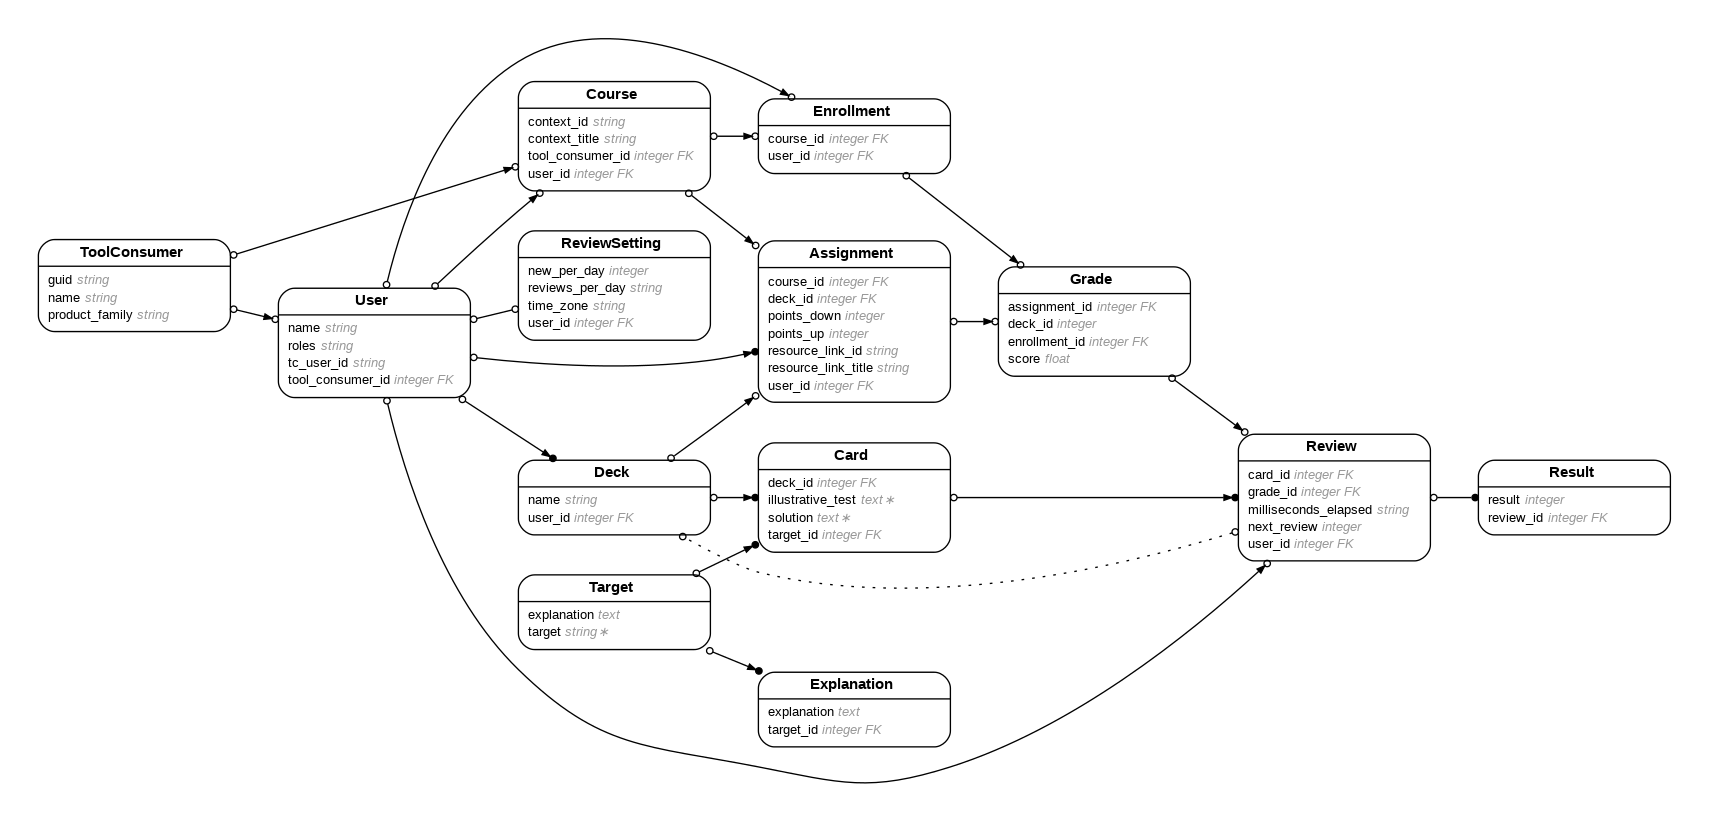
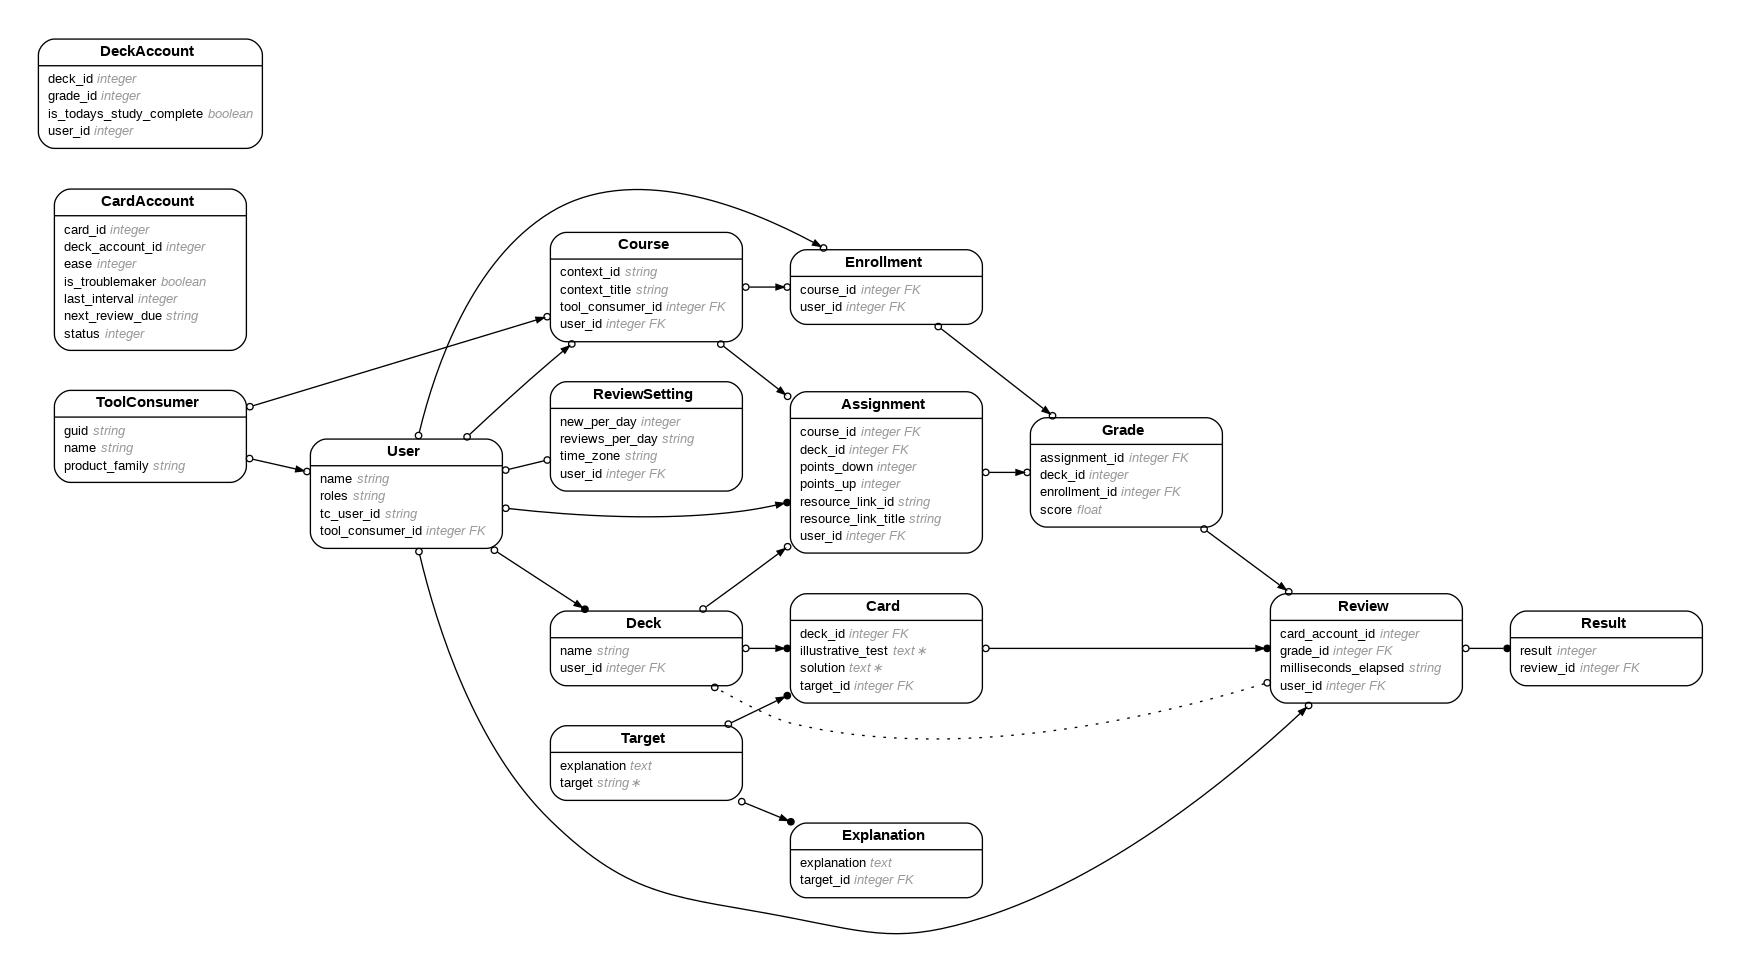
updated the domain model to help with grades. next updating the associations

diff --git a/db/schema.rb b/db/schema.rb
@@ -10,7 +10,7 @@
 #
 # It's strongly recommended that you check this file into your version control system.
 
-ActiveRecord::Schema.define(version: 2021_08_11_215713) do
+ActiveRecord::Schema.define(version: 2021_08_24_172532) do
 
   # These are extensions that must be enabled in order to support this database
   enable_extension "plpgsql"
@@ -23,6 +23,18 @@ ActiveRecord::Schema.define(version: 2021_08_11_215713) do
     t.integer "deck_id"
     t.integer "points_up", default: 1
     t.integer "points_down", default: 1
+    t.datetime "created_at", precision: 6, null: false
+    t.datetime "updated_at", precision: 6, null: false
+  end
+
+  create_table "card_accounts", force: :cascade do |t|
+    t.integer "deck_account_id"
+    t.integer "card_id"
+    t.integer "status", default: 0
+    t.integer "last_interval", default: 0
+    t.string "next_review_due", default: "0"
+    t.integer "ease", default: 250
+    t.boolean "is_troublemaker", default: false
     t.datetime "created_at", precision: 6, null: false
     t.datetime "updated_at", precision: 6, null: false
   end
@@ -41,6 +53,15 @@ ActiveRecord::Schema.define(version: 2021_08_11_215713) do
     t.integer "user_id"
     t.string "context_id"
     t.string "context_title"
+    t.datetime "created_at", precision: 6, null: false
+    t.datetime "updated_at", precision: 6, null: false
+  end
+
+  create_table "deck_accounts", force: :cascade do |t|
+    t.integer "user_id"
+    t.integer "grade_id"
+    t.integer "deck_id"
+    t.boolean "is_todays_study_complete", default: false
     t.datetime "created_at", precision: 6, null: false
     t.datetime "updated_at", precision: 6, null: false
   end
@@ -92,9 +113,8 @@ ActiveRecord::Schema.define(version: 2021_08_11_215713) do
   end
 
   create_table "reviews", force: :cascade do |t|
-    t.integer "next_review"
     t.string "milliseconds_elapsed"
-    t.integer "card_id"
+    t.integer "card_account_id"
     t.integer "grade_id"
     t.integer "user_id"
     t.datetime "created_at", precision: 6, null: false

diff --git a/test/models/card_account_test.rb b/test/models/card_account_test.rb
@@ -1,0 +1,22 @@
+# == Schema Information
+#
+# Table name: card_accounts
+#
+#  id              :bigint           not null, primary key
+#  deck_account_id :integer
+#  card_id         :integer
+#  status          :integer          default(0)
+#  last_interval   :integer          default(0)
+#  next_review_due :string           default("0")
+#  ease            :integer          default(250)
+#  is_troublemaker :boolean          default(FALSE)
+#  created_at      :datetime         not null
+#  updated_at      :datetime         not null
+#
+require "test_helper"
+
+class CardAccountTest < ActiveSupport::TestCase
+  # test "the truth" do
+  #   assert true
+  # end
+end

diff --git a/app/models/card_account.rb b/app/models/card_account.rb
@@ -1,0 +1,17 @@
+# == Schema Information
+#
+# Table name: card_accounts
+#
+#  id              :bigint           not null, primary key
+#  deck_account_id :integer
+#  card_id         :integer
+#  status          :integer          default(0)
+#  last_interval   :integer          default(0)
+#  next_review_due :string           default("0")
+#  ease            :integer          default(250)
+#  is_troublemaker :boolean          default(FALSE)
+#  created_at      :datetime         not null
+#  updated_at      :datetime         not null
+#
+class CardAccount < ApplicationRecord
+end

diff --git a/test/models/deck_account_test.rb b/test/models/deck_account_test.rb
@@ -1,0 +1,19 @@
+# == Schema Information
+#
+# Table name: deck_accounts
+#
+#  id                       :bigint           not null, primary key
+#  user_id                  :integer
+#  grade_id                 :integer
+#  deck_id                  :integer
+#  is_todays_study_complete :boolean          default(FALSE)
+#  created_at               :datetime         not null
+#  updated_at               :datetime         not null
+#
+require "test_helper"
+
+class DeckAccountTest < ActiveSupport::TestCase
+  # test "the truth" do
+  #   assert true
+  # end
+end

diff --git a/app/models/deck_account.rb b/app/models/deck_account.rb
@@ -1,0 +1,14 @@
+# == Schema Information
+#
+# Table name: deck_accounts
+#
+#  id                       :bigint           not null, primary key
+#  user_id                  :integer
+#  grade_id                 :integer
+#  deck_id                  :integer
+#  is_todays_study_complete :boolean          default(FALSE)
+#  created_at               :datetime         not null
+#  updated_at               :datetime         not null
+#
+class DeckAccount < ApplicationRecord
+end

diff --git a/db/migrate/20210824172532_create_card_accounts.rb b/db/migrate/20210824172532_create_card_accounts.rb
@@ -1,0 +1,15 @@
+class CreateCardAccounts < ActiveRecord::Migration[6.1]
+  def change
+    create_table :card_accounts do |t|
+      t.integer :deck_account_id
+      t.integer :card_id
+      t.integer :status, default: 0
+      t.integer :last_interval, default: 0
+      t.string  :next_review_due, default: 0
+      t.integer :ease, default: 250
+      t.boolean :is_troublemaker, default: false
+
+      t.timestamps
+    end
+  end
+end

diff --git a/app/models/review.rb b/app/models/review.rb
@@ -3,9 +3,8 @@
 # Table name: reviews
 #
 #  id                   :bigint           not null, primary key
-#  next_review          :integer
 #  milliseconds_elapsed :string
-#  card_id              :integer
+#  card_account_id      :integer
 #  grade_id             :integer
 #  user_id              :integer
 #  created_at           :datetime         not null

diff --git a/test/models/review_test.rb b/test/models/review_test.rb
@@ -3,9 +3,8 @@
 # Table name: reviews
 #
 #  id                   :bigint           not null, primary key
-#  next_review          :integer
 #  milliseconds_elapsed :string
-#  card_id              :integer
+#  card_account_id      :integer
 #  grade_id             :integer
 #  user_id              :integer
 #  created_at           :datetime         not null

diff --git a/db/migrate/20210824172128_create_deck_accounts.rb b/db/migrate/20210824172128_create_deck_accounts.rb
@@ -1,0 +1,12 @@
+class CreateDeckAccounts < ActiveRecord::Migration[6.1]
+  def change
+    create_table :deck_accounts do |t|
+      t.integer :user_id
+      t.integer :grade_id
+      t.integer :deck_id
+      t.boolean :is_todays_study_complete, :default => false
+
+      t.timestamps
+    end
+  end
+end

diff --git a/db/migrate/20210531215451_create_reviews.rb b/db/migrate/20210531215451_create_reviews.rb
@@ -1,9 +1,8 @@
 class CreateReviews < ActiveRecord::Migration[6.1]
   def change
     create_table :reviews do |t|
-      t.integer :next_review
       t.string :milliseconds_elapsed
-      t.integer :card_id
+      t.integer :card_account_id
       t.integer :grade_id
       t.integer :user_id
 
